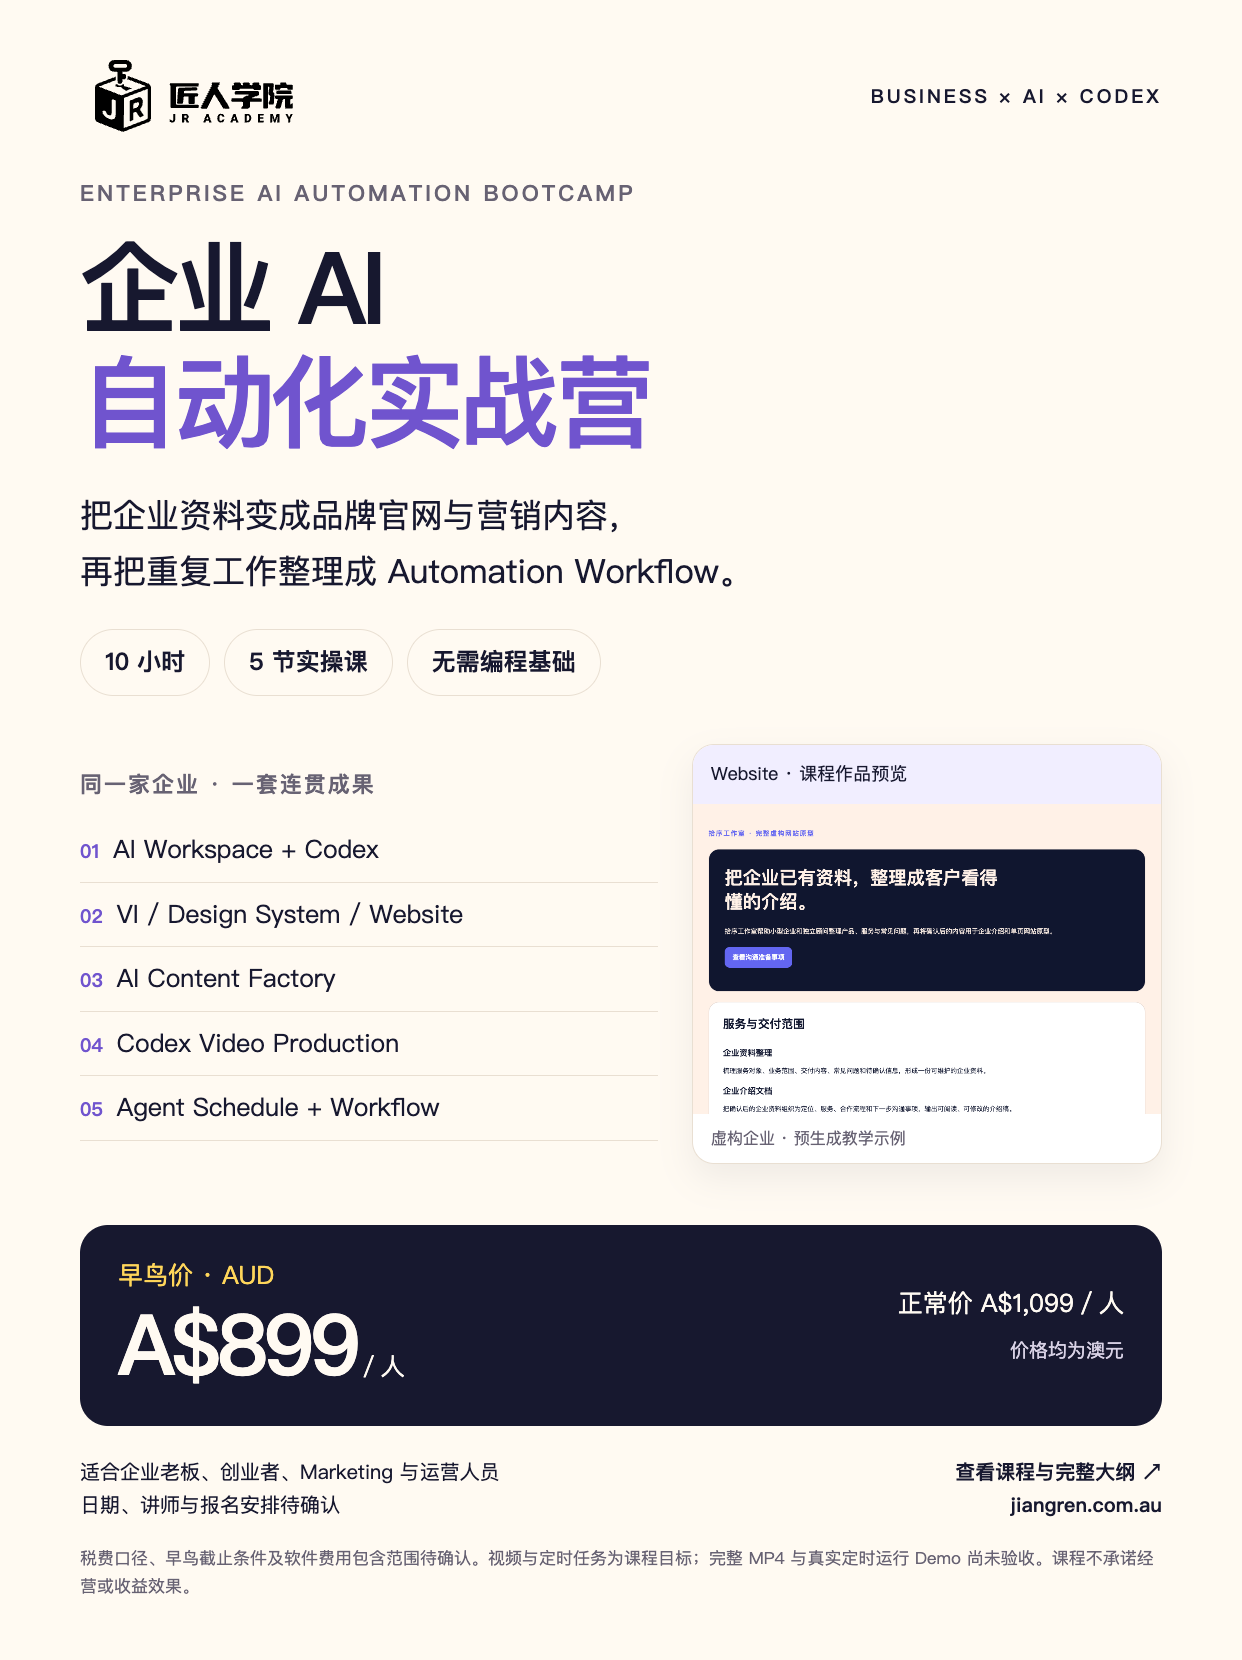
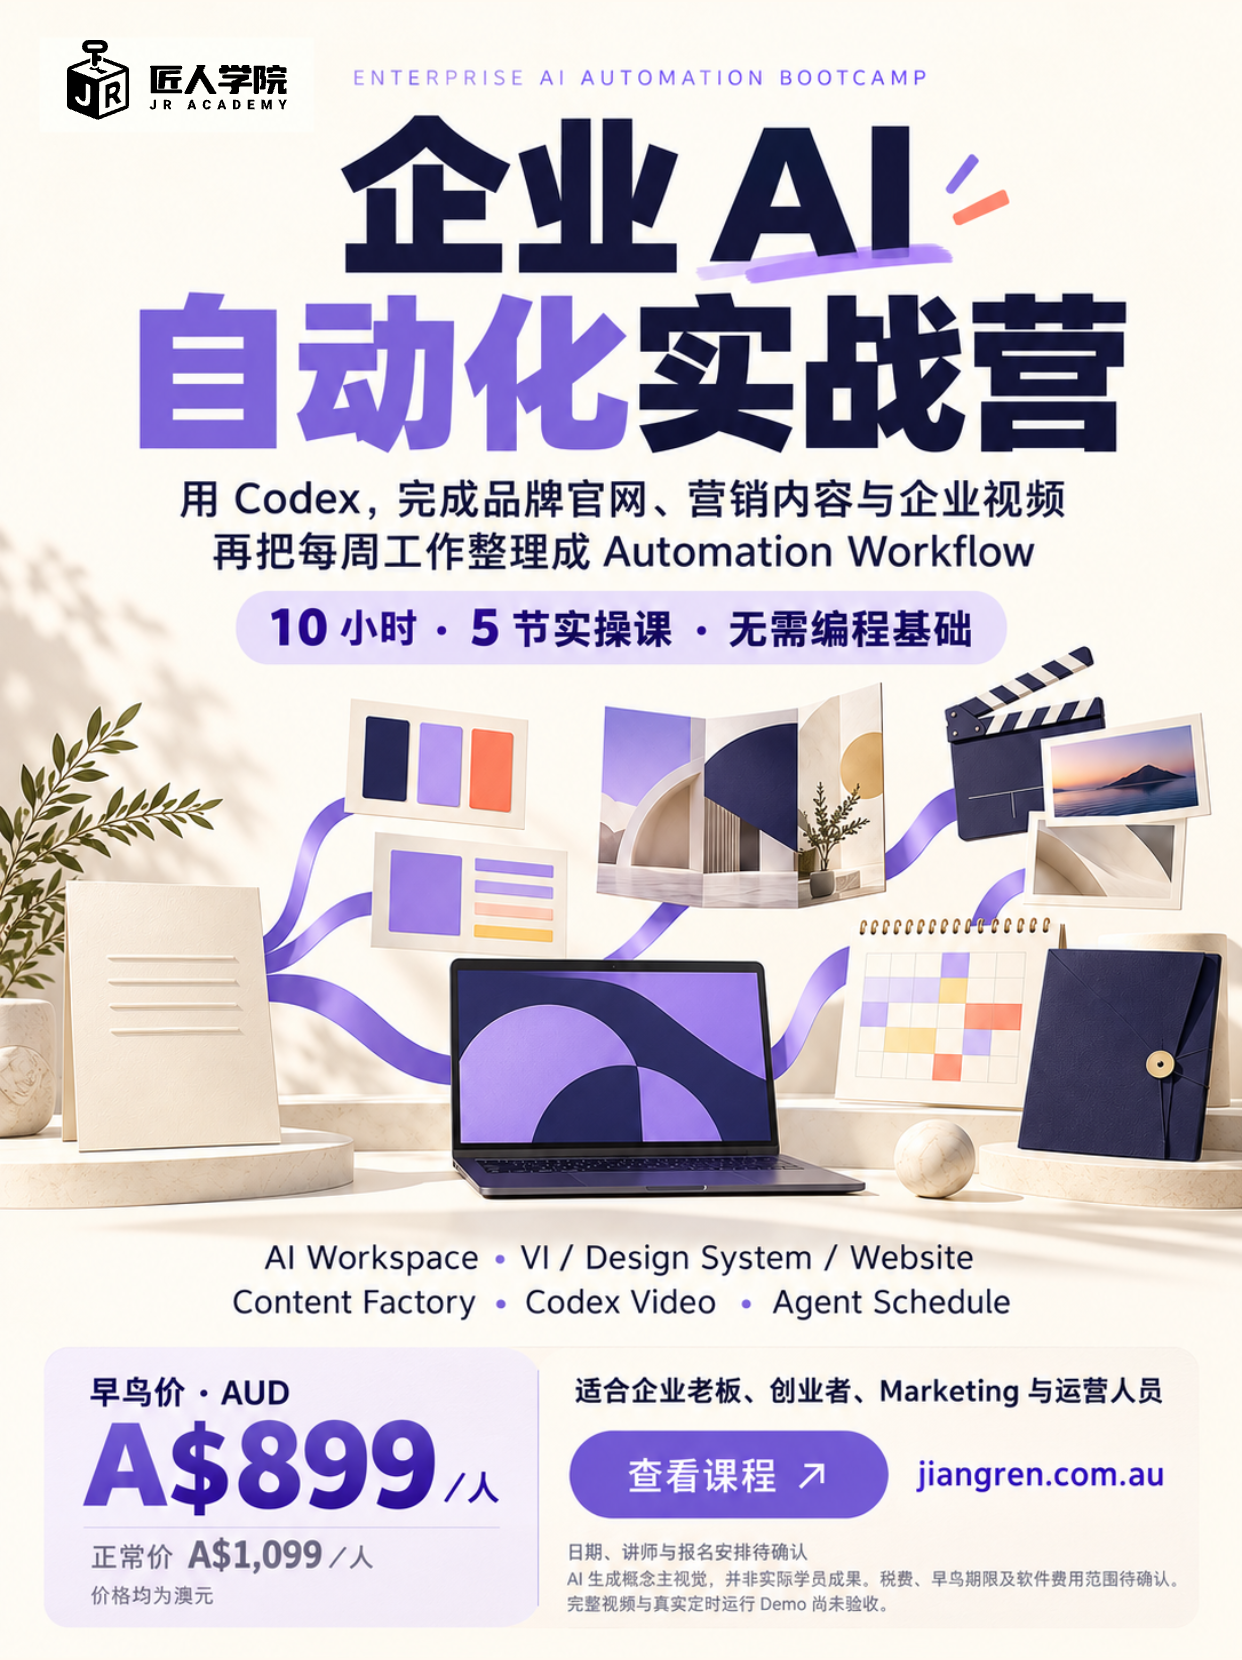
feat: render full course poster text with Image Model [skip ci]

diff --git a/enterprise-ai-automation-bootcamp/poster-template.html b/enterprise-ai-automation-bootcamp/poster-template.html
@@ -1,14 +1,1 @@
-<!doctype html><html lang="zh-CN"><head><meta charset="utf-8"><meta name="viewport" content="width=device-width,initial-scale=1"><meta name="robots" content="noindex,nofollow"><title>企业 AI 自动化实战营 · 招生海报</title><style>
-@import url('styles.css');
-:root{--ink:#17182F;--cream:#FFFAF2;--coral:#FF6854;--violet:#9A88EA;--line:#E9DFD2}
-body{margin:0;background:#F5EFE7;color:var(--ink);font-family:'DM Sans','PingFang SC','Noto Sans SC',sans-serif}*{box-sizing:border-box}
-#poster{width:1242px;height:1660px;padding:60px 80px;background:var(--cream);position:relative;overflow:hidden;display:flex;flex-direction:column}
-.brandline{display:flex;align-items:center;justify-content:space-between}.brandline img{width:230px;height:72px;object-fit:contain}.series{font-size:19px;letter-spacing:3px;font-weight:700}
-.kicker{font-size:22px;letter-spacing:3px;margin:44px 0 20px;font-weight:650;color:#676273}h1{font-size:100px;font-weight:850;letter-spacing:-5px;line-height:1.14;margin:0}h1 em{font-style:normal;color:#7054CE}
-.sub{font-size:33px;line-height:1.7;max-width:1040px;margin:28px 0 30px}.facts{display:flex;gap:14px}.facts span{border:1px solid var(--line);padding:13px 24px;border-radius:100px;font-size:24px;font-weight:650}
-.work{margin:48px 0 36px;display:grid;grid-template-columns:1fr 470px;gap:34px;align-items:center}.work h2{font-size:22px;letter-spacing:2px;margin:0 0 16px;color:#676273}.steps{font-size:25px;line-height:1.5}.steps div{padding:13px 0;border-bottom:1px solid var(--line)}.steps b{color:#7054CE;margin-right:14px;font-size:19px}.preview{border:1px solid var(--line);border-radius:22px;overflow:hidden;background:white;box-shadow:0 15px 35px #17182f12}.preview-head{padding:15px 18px;background:#F1EEFF;font-size:18px}.preview img{width:100%;height:310px;object-fit:cover;object-position:top;display:block}.preview p{font-size:16px;margin:0;padding:12px 18px;color:#676273}
-.price{margin-top:auto;border-radius:28px;background:var(--ink);color:var(--cream);padding:30px 38px;display:flex;align-items:center;justify-content:space-between}.price label{display:block;color:#FFD65A;font-size:25px}.price strong{font-size:84px;line-height:1.2;letter-spacing:-4px}.price strong small{font-size:24px;letter-spacing:0;font-weight:400}.standard{font-size:25px;line-height:1.8;text-align:right}.standard span{font-size:19px;color:#D8D1E5}
-.footer-row{margin-top:30px;display:flex;align-items:flex-start;justify-content:space-between;gap:40px}.footer-row p{margin:0;font-size:20px;line-height:1.65}.footer-row .link{font-size:20px;font-weight:700;text-align:right}.fine{font-size:17px;color:#676273;line-height:1.65;margin:22px 0 0}
-.controls{padding:30px;text-align:center}a{color:inherit}.controls a{display:inline-block;margin:12px;padding:12px 22px;border-radius:12px;background:var(--ink);color:white;text-decoration:none}
-@media(max-width:1242px){#poster{transform-origin:top left}body{overflow-x:auto}}@media print{.controls{display:none}body{background:white}}
-</style></head><body><main id="poster"><div class="brandline"><img src="assets/logo-official-black.svg" alt="JR Academy"><span class="series">BUSINESS × AI × CODEX</span></div><p class="kicker">ENTERPRISE AI AUTOMATION BOOTCAMP</p><h1>企业 AI<br><em>自动化实战营</em></h1><p class="sub">把企业资料变成品牌官网与营销内容，<br>再把重复工作整理成 Automation Workflow。</p><div class="facts"><span>10 小时</span><span>5 节实操课</span><span>无需编程基础</span></div><div class="work"><div><h2>同一家企业 · 一套连贯成果</h2><div class="steps"><div><b>01</b>AI Workspace + Codex</div><div><b>02</b>VI / Design System / Website</div><div><b>03</b>AI Content Factory</div><div><b>04</b>Codex Video Production</div><div><b>05</b>Agent Schedule + Workflow</div></div></div><div class="preview"><div class="preview-head">Website · 课程作品预览</div><img src="assets/website-preview.png" alt="拾序工作室完整网站原型的实际页面"><p>虚构企业 · 预生成教学示例</p></div></div><div class="price"><div><label>早鸟价 · AUD</label><strong>A${{EARLY}}<small>／人</small></strong></div><div class="standard">正常价 A${{STANDARD}}／人<br><span>价格均为澳元</span></div></div><div class="footer-row"><p>适合企业老板、创业者、Marketing 与运营人员<br>日期、讲师与报名安排待确认</p><p class="link">查看课程与完整大纲 ↗<br>jiangren.com.au</p></div><p class="fine">税费口径、早鸟截止条件及软件费用包含范围待确认。视频与定时任务为课程目标；完整 MP4 与真实定时运行 Demo 尚未验收。课程不承诺经营或收益效果。</p></main><div class="controls"><a href="poster.png" download="企业AI自动化实战营-澳元版招生海报.png">下载 PNG</a><a href="https://jiangren.com.au/program-course/enterprise-ai-automation-bootcamp">查看官网课程页</a><a href="outline.html">查看课程大纲</a></div></body></html>
+<!doctype html><html lang="zh-CN"><head><meta charset="utf-8"><meta name="viewport" content="width=device-width,initial-scale=1"><meta name="robots" content="noindex,nofollow"><title>企业 AI 自动化实战营 · Image Model 招生海报</title><style>*{box-sizing:border-box}body{margin:0;background:#FFFAF2;font-family:system-ui,'PingFang SC',sans-serif;color:#17182F}#poster{position:relative;width:100%;max-width:1242px;aspect-ratio:1242/1660;margin:auto;overflow:hidden;background:#FFFAF2}.art{display:block;width:100%;height:100%;object-fit:contain}.brand{position:absolute;left:4.67%;top:2.4%;width:19.32%;height:4.82%;object-fit:contain}.controls{padding:24px;text-align:center;font-size:16px;line-height:1.8}.controls a{display:inline-block;margin:8px 12px;color:#17182F}.note{color:#676273;max-width:760px;margin:12px auto}@media print{.controls{display:none}}</style></head><body><main id="poster"><img class="art" src="assets/poster-image-model.png" alt="Image Model 生成整张海报，包含企业 AI 自动化实战营标题、10 小时与 5 节实操课、英文课程主题、早鸟价 A$899／人和正常价 A$1,099／人。价格为澳元；日期、讲师与报名安排待确认。"><img class="brand" src="assets/logo-official-black.svg" alt="JR Academy 官方 Logo"></main><nav class="controls" aria-label="海报操作"><a href="poster.png" download="企业AI自动化实战营-ImageModel整图含文字招生海报.png">下载高清海报 PNG</a><a href="https://jiangren.com.au/program-course/enterprise-ai-automation-bootcamp">查看课程官网</a><a href="outline.html">查看完整课程大纲</a><p class="note">海报画面、中文和英文文字、价格及排版均由 Image Model 生成；官方 Logo 使用原始 SVG 叠加。概念主视觉并非真实学员成果。完整视频与真实定时运行 Demo 尚未验收。</p></nav></body></html>

diff --git a/enterprise-ai-automation-bootcamp/public/poster.html b/enterprise-ai-automation-bootcamp/public/poster.html
@@ -1,14 +1,1 @@
-<!doctype html><html lang="zh-CN"><head><meta charset="utf-8"><meta name="viewport" content="width=device-width,initial-scale=1"><meta name="robots" content="noindex,nofollow"><title>企业 AI 自动化实战营 · 招生海报</title><style>
-@import url('styles.css');
-:root{--ink:#17182F;--cream:#FFFAF2;--coral:#FF6854;--violet:#9A88EA;--line:#E9DFD2}
-body{margin:0;background:#F5EFE7;color:var(--ink);font-family:'DM Sans','PingFang SC','Noto Sans SC',sans-serif}*{box-sizing:border-box}
-#poster{width:1242px;height:1660px;padding:60px 80px;background:var(--cream);position:relative;overflow:hidden;display:flex;flex-direction:column}
-.brandline{display:flex;align-items:center;justify-content:space-between}.brandline img{width:230px;height:72px;object-fit:contain}.series{font-size:19px;letter-spacing:3px;font-weight:700}
-.kicker{font-size:22px;letter-spacing:3px;margin:44px 0 20px;font-weight:650;color:#676273}h1{font-size:100px;font-weight:850;letter-spacing:-5px;line-height:1.14;margin:0}h1 em{font-style:normal;color:#7054CE}
-.sub{font-size:33px;line-height:1.7;max-width:1040px;margin:28px 0 30px}.facts{display:flex;gap:14px}.facts span{border:1px solid var(--line);padding:13px 24px;border-radius:100px;font-size:24px;font-weight:650}
-.work{margin:48px 0 36px;display:grid;grid-template-columns:1fr 470px;gap:34px;align-items:center}.work h2{font-size:22px;letter-spacing:2px;margin:0 0 16px;color:#676273}.steps{font-size:25px;line-height:1.5}.steps div{padding:13px 0;border-bottom:1px solid var(--line)}.steps b{color:#7054CE;margin-right:14px;font-size:19px}.preview{border:1px solid var(--line);border-radius:22px;overflow:hidden;background:white;box-shadow:0 15px 35px #17182f12}.preview-head{padding:15px 18px;background:#F1EEFF;font-size:18px}.preview img{width:100%;height:310px;object-fit:cover;object-position:top;display:block}.preview p{font-size:16px;margin:0;padding:12px 18px;color:#676273}
-.price{margin-top:auto;border-radius:28px;background:var(--ink);color:var(--cream);padding:30px 38px;display:flex;align-items:center;justify-content:space-between}.price label{display:block;color:#FFD65A;font-size:25px}.price strong{font-size:84px;line-height:1.2;letter-spacing:-4px}.price strong small{font-size:24px;letter-spacing:0;font-weight:400}.standard{font-size:25px;line-height:1.8;text-align:right}.standard span{font-size:19px;color:#D8D1E5}
-.footer-row{margin-top:30px;display:flex;align-items:flex-start;justify-content:space-between;gap:40px}.footer-row p{margin:0;font-size:20px;line-height:1.65}.footer-row .link{font-size:20px;font-weight:700;text-align:right}.fine{font-size:17px;color:#676273;line-height:1.65;margin:22px 0 0}
-.controls{padding:30px;text-align:center}a{color:inherit}.controls a{display:inline-block;margin:12px;padding:12px 22px;border-radius:12px;background:var(--ink);color:white;text-decoration:none}
-@media(max-width:1242px){#poster{transform-origin:top left}body{overflow-x:auto}}@media print{.controls{display:none}body{background:white}}
-</style></head><body><main id="poster"><div class="brandline"><img src="assets/logo-official-black.svg" alt="JR Academy"><span class="series">BUSINESS × AI × CODEX</span></div><p class="kicker">ENTERPRISE AI AUTOMATION BOOTCAMP</p><h1>企业 AI<br><em>自动化实战营</em></h1><p class="sub">把企业资料变成品牌官网与营销内容，<br>再把重复工作整理成 Automation Workflow。</p><div class="facts"><span>10 小时</span><span>5 节实操课</span><span>无需编程基础</span></div><div class="work"><div><h2>同一家企业 · 一套连贯成果</h2><div class="steps"><div><b>01</b>AI Workspace + Codex</div><div><b>02</b>VI / Design System / Website</div><div><b>03</b>AI Content Factory</div><div><b>04</b>Codex Video Production</div><div><b>05</b>Agent Schedule + Workflow</div></div></div><div class="preview"><div class="preview-head">Website · 课程作品预览</div><img src="assets/website-preview.png" alt="拾序工作室完整网站原型的实际页面"><p>虚构企业 · 预生成教学示例</p></div></div><div class="price"><div><label>早鸟价 · AUD</label><strong>A$899<small>／人</small></strong></div><div class="standard">正常价 A$1,099／人<br><span>价格均为澳元</span></div></div><div class="footer-row"><p>适合企业老板、创业者、Marketing 与运营人员<br>日期、讲师与报名安排待确认</p><p class="link">查看课程与完整大纲 ↗<br>jiangren.com.au</p></div><p class="fine">税费口径、早鸟截止条件及软件费用包含范围待确认。视频与定时任务为课程目标；完整 MP4 与真实定时运行 Demo 尚未验收。课程不承诺经营或收益效果。</p></main><div class="controls"><a href="poster.png" download="企业AI自动化实战营-澳元版招生海报.png">下载 PNG</a><a href="https://jiangren.com.au/program-course/enterprise-ai-automation-bootcamp">查看官网课程页</a><a href="outline.html">查看课程大纲</a></div></body></html>
+<!doctype html><html lang="zh-CN"><head><meta charset="utf-8"><meta name="viewport" content="width=device-width,initial-scale=1"><meta name="robots" content="noindex,nofollow"><title>企业 AI 自动化实战营 · Image Model 招生海报</title><style>*{box-sizing:border-box}body{margin:0;background:#FFFAF2;font-family:system-ui,'PingFang SC',sans-serif;color:#17182F}#poster{position:relative;width:100%;max-width:1242px;aspect-ratio:1242/1660;margin:auto;overflow:hidden;background:#FFFAF2}.art{display:block;width:100%;height:100%;object-fit:contain}.brand{position:absolute;left:4.67%;top:2.4%;width:19.32%;height:4.82%;object-fit:contain}.controls{padding:24px;text-align:center;font-size:16px;line-height:1.8}.controls a{display:inline-block;margin:8px 12px;color:#17182F}.note{color:#676273;max-width:760px;margin:12px auto}@media print{.controls{display:none}}</style></head><body><main id="poster"><img class="art" src="assets/poster-image-model.png" alt="Image Model 生成整张海报，包含企业 AI 自动化实战营标题、10 小时与 5 节实操课、英文课程主题、早鸟价 A$899／人和正常价 A$1,099／人。价格为澳元；日期、讲师与报名安排待确认。"><img class="brand" src="assets/logo-official-black.svg" alt="JR Academy 官方 Logo"></main><nav class="controls" aria-label="海报操作"><a href="poster.png" download="企业AI自动化实战营-ImageModel整图含文字招生海报.png">下载高清海报 PNG</a><a href="https://jiangren.com.au/program-course/enterprise-ai-automation-bootcamp">查看课程官网</a><a href="outline.html">查看完整课程大纲</a><p class="note">海报画面、中文和英文文字、价格及排版均由 Image Model 生成；官方 Logo 使用原始 SVG 叠加。概念主视觉并非真实学员成果。完整视频与真实定时运行 Demo 尚未验收。</p></nav></body></html>

diff --git a/enterprise-ai-automation-bootcamp/DESIGN.md b/enterprise-ai-automation-bootcamp/DESIGN.md
@@ -28,3 +28,8 @@ Logo 直接复制 `../../jr-academy-brand/assets/logo/logo-en-white.svg` 和 `lo
 官网使用既有 Register A semantic tokens；海报使用 A-editorial，继承 JR Academy COURSE_DESIGN / POSTER_DESIGN；奶油底、深墨正文、紫色强调，真实官方 Logo 直接嵌入。`poster-template.html` 为可编辑源，价格从 outline Program 投影。作品画面来自实际 `example-website.html`，不绘制伪 UI；该原型使用案例自身 VI 色彩。主要术语保留英文。
 
 币种 AUD 已由 owner 确认，定价 A$899 / A$1,099。未确认事项继续明确标注。
+
+
+## Full Image Model poster · owner override 2026-10-22
+
+Owner explicitly requested that text also be generated by Image Model. This poster therefore overrides the default deterministic-text layer recommendation: all visible headline, course copy, English topics, prices and layout are model-generated within `public/assets/poster-image-model.png`. Only the official original SVG logo is composed in HTML, following the non-negotiable logo rule. Prices and Chinese text were visually checked. The generated image has no course execution claims; it is labelled conceptual. `poster-template.html` contains image and logo layers only, plus accessible image descriptions and navigation. Screenshot `#poster` at 1242px to regenerate `public/poster.png`.

diff --git a/enterprise-ai-automation-bootcamp/CHANGELOG.md b/enterprise-ai-automation-bootcamp/CHANGELOG.md
@@ -1,3 +1,9 @@
+## 2026-10-22 · Full Image Model course poster
+
+- Replace the course poster with a model-generated composition including all visible Chinese/English course text, pricing and layout. Overlay only the original official JR Academy logo.
+- Preserve A$899 / A$1,099, the existing poster URLs and all course scope. Responsive poster page and downloadable 1242×1660 PNG are released together.
+- Owner explicitly authorised deployment; use the existing remote Actions pipeline.
+
 # 2026-10-22 · AUD pricing and course presentation (Local)
 
 - Owner confirmed currency AUD: early bird A$899, standard A$1,099. Synced outline, enrollment copy, bilingual custom page and static previews.
